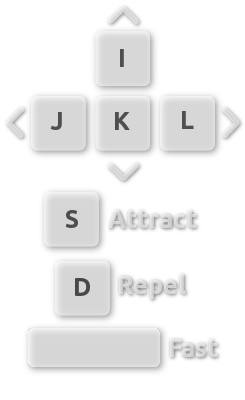
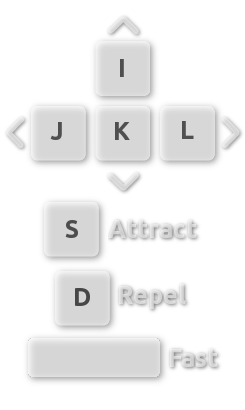
some more whitespace for image and minor copy update

diff --git a/spaceball.html b/spaceball.html
@@ -80,7 +80,7 @@
   <div id='sidebar'>
     <h1>Spaceball</h1>
     <p>
-      Soccer in space. The pulsing balls are goal posts. 
+      Soccer in space. The pulsing balls are goals. 
       Get the asteroid in your opponent's goal,
       while defending your own.
       First to 10 goals wins, then the game restarts.
